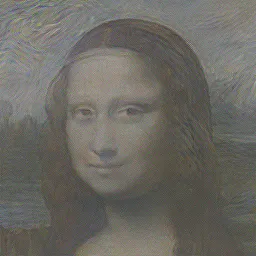
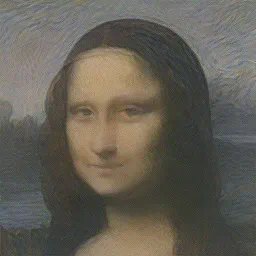
readme update

diff --git a/src/main.py b/src/main.py
@@ -79,12 +79,12 @@ APP_CSS = """
 """
 
 
-def _generate_button_update(visible: bool) -> dict:
-    return gr.update(value="Generate", variant="primary", visible=visible)
-
-
-def _stop_button_update(visible: bool) -> dict:
-    return gr.update(value="Stop", variant="stop", visible=visible)
+def _action_button_update(is_running: bool) -> dict:
+    return gr.update(
+        value="Stop" if is_running else "Generate",
+        variant="stop" if is_running else "primary",
+        visible=True,
+    )
 
 
 def _resolve_image(
@@ -138,30 +138,31 @@ def _get_generation_started_at(generation_id: int) -> float:
         return GENERATION_STARTED_AT
 
 
-def _start_generation_request() -> tuple[dict, dict, str, int, None, list, dict]:
+def _handle_action_button(
+    is_running: bool,
+) -> tuple[bool, int, str | dict, None, list, dict, dict]:
+    if is_running:
+        stopped = _stop_generation()
+        runtime_update: str | dict = "Idle" if stopped else gr.skip()
+        return (
+            False,
+            0,
+            runtime_update,
+            None,
+            [],
+            gr.update(active=False),
+            _action_button_update(False),
+        )
+
     generation_id = _start_generation()
     return (
-        _generate_button_update(False),
-        _stop_button_update(True),
-        "0.0s",
+        True,
         generation_id,
+        "0.0s",
         None,
         [],
         gr.update(active=True),
-    )
-
-
-def _stop_generation_request() -> tuple[dict, dict, str | dict, int, None, list, dict]:
-    stopped = _stop_generation()
-    runtime_update: str | dict = "Idle" if stopped else gr.skip()
-    return (
-        _generate_button_update(True),
-        _stop_button_update(False),
-        runtime_update,
-        0,
-        None,
-        [],
-        gr.update(active=False),
+        _action_button_update(True),
     )
 
 
@@ -250,6 +251,7 @@ def _activate_style_upload(
 
 
 def generate_style_transfer(
+    is_running: bool,
     generation_id: int,
     content_source: str,
     content_sample: str,
@@ -262,7 +264,7 @@ def generate_style_transfer(
     content_weight: float,
     show_every: int,
 ):
-    if generation_id == 0 or not _is_generation_active(generation_id):
+    if not is_running or generation_id == 0 or not _is_generation_active(generation_id):
         return
 
     started_at = _get_generation_started_at(generation_id)
@@ -315,8 +317,8 @@ def generate_style_transfer(
         yield (
             update.image,
             snapshots,
-            _generate_button_update(False),
-            _stop_button_update(True),
+            _action_button_update(True),
+            True,
             gr.update(active=True),
         )
 
@@ -325,8 +327,8 @@ def generate_style_transfer(
         yield (
             gr.skip(),
             gr.skip(),
-            _generate_button_update(True),
-            _stop_button_update(False),
+            _action_button_update(False),
+            False,
             gr.update(active=False),
         )
 
@@ -407,8 +409,8 @@ def build_demo() -> gr.Blocks:
             style_weight = gr.Slider(50, 200, value=100, step=10, label="Style Weight")
             content_weight = gr.Slider(0.1, 0.3, value=0.1, step=0.05, label="Content Weight")
 
-        generate_button = gr.Button("Generate", variant="primary", visible=True)
-        stop_button = gr.Button("Stop", variant="stop", visible=False)
+        action_button = gr.Button("Generate", variant="primary", visible=True)
+        is_running_state = gr.State(False)
         generation_id_state = gr.State(0)
         runtime_timer = gr.Timer(value=0.2, active=False)
 
@@ -460,21 +462,23 @@ def build_demo() -> gr.Blocks:
             queue=False,
         )
 
-        generate_button.click(
-            _start_generation_request,
+        action_button.click(
+            _handle_action_button,
+            inputs=[is_running_state],
             outputs=[
-                generate_button,
-                stop_button,
-                runtime_box,
+                is_running_state,
                 generation_id_state,
+                runtime_box,
                 result_image,
                 history_gallery,
                 runtime_timer,
+                action_button,
             ],
             queue=False,
         ).then(
             generate_style_transfer,
             inputs=[
+                is_running_state,
                 generation_id_state,
                 content_source,
                 content_sample,
@@ -487,22 +491,9 @@ def build_demo() -> gr.Blocks:
                 content_weight,
                 show_every,
             ],
-            outputs=[result_image, history_gallery, generate_button, stop_button, runtime_timer],
+            outputs=[result_image, history_gallery, action_button, is_running_state, runtime_timer],
             concurrency_limit=1,
             trigger_mode="once",
-        )
-        stop_button.click(
-            _stop_generation_request,
-            outputs=[
-                generate_button,
-                stop_button,
-                runtime_box,
-                generation_id_state,
-                result_image,
-                history_gallery,
-                runtime_timer,
-            ],
-            queue=False,
         )
         runtime_timer.tick(
             _tick_runtime,

diff --git a/README.md b/README.md
@@ -26,6 +26,14 @@ An interactive neural style transfer demo built on a frozen VGG19 feature extrac
   <img src="data/output/sample.webp" alt="sample_mn.webp" width="180">
 </p>
 
+<p align="center">
+  <img src="data/output/sample_mn.webp" alt="mona_lisa.jpg" width="180">
+  <strong style="font-size: 28px; padding: 0 12px;">+</strong>
+  <img src="data/style/starry_night.jpg" alt="spiral.jpg" width="180">
+  <strong style="font-size: 28px; padding: 0 12px;">=</strong>
+  <img src="data/output/sample_sn.webp" alt="sample_mn.webp" width="180">
+</p>
+
 ## Features
 
 - VGG19-based optimization style transfer
